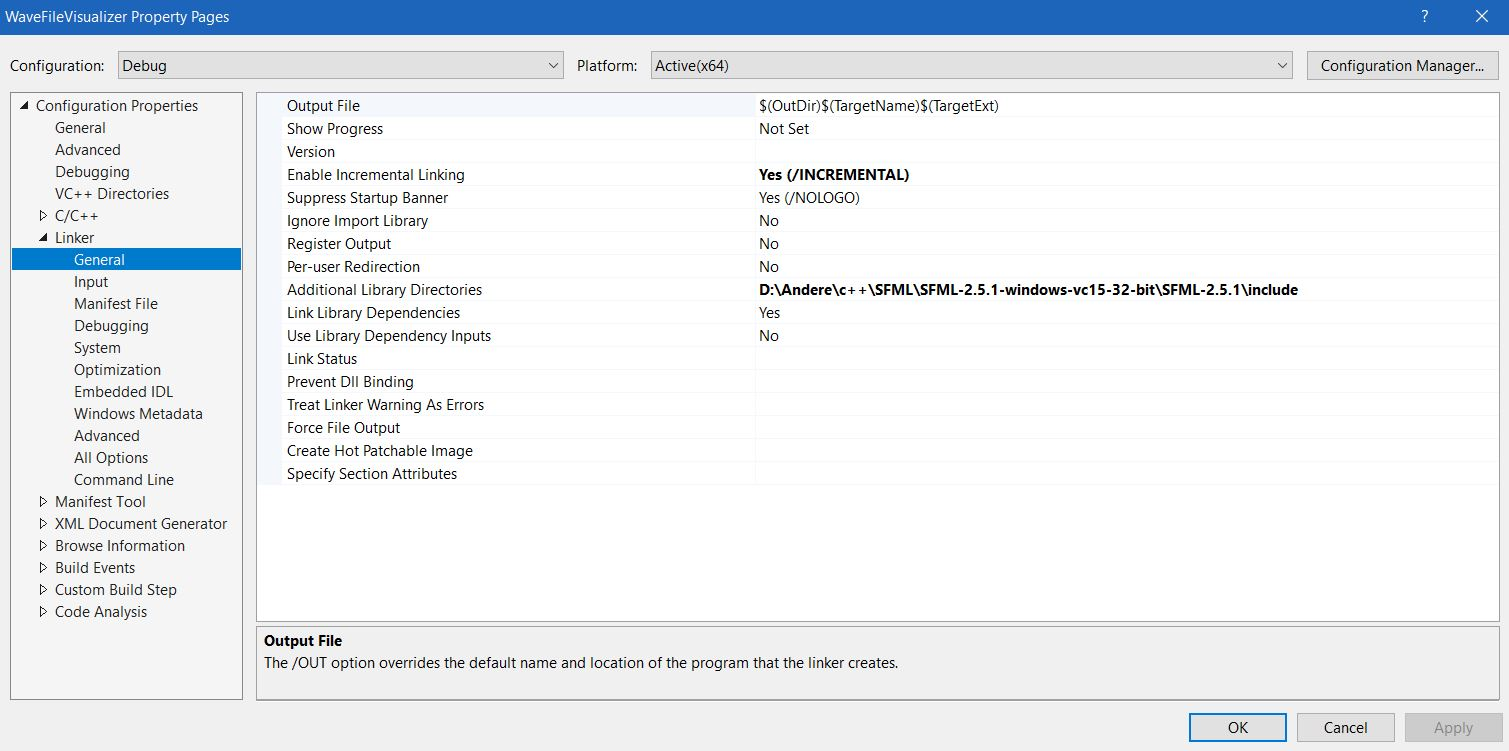
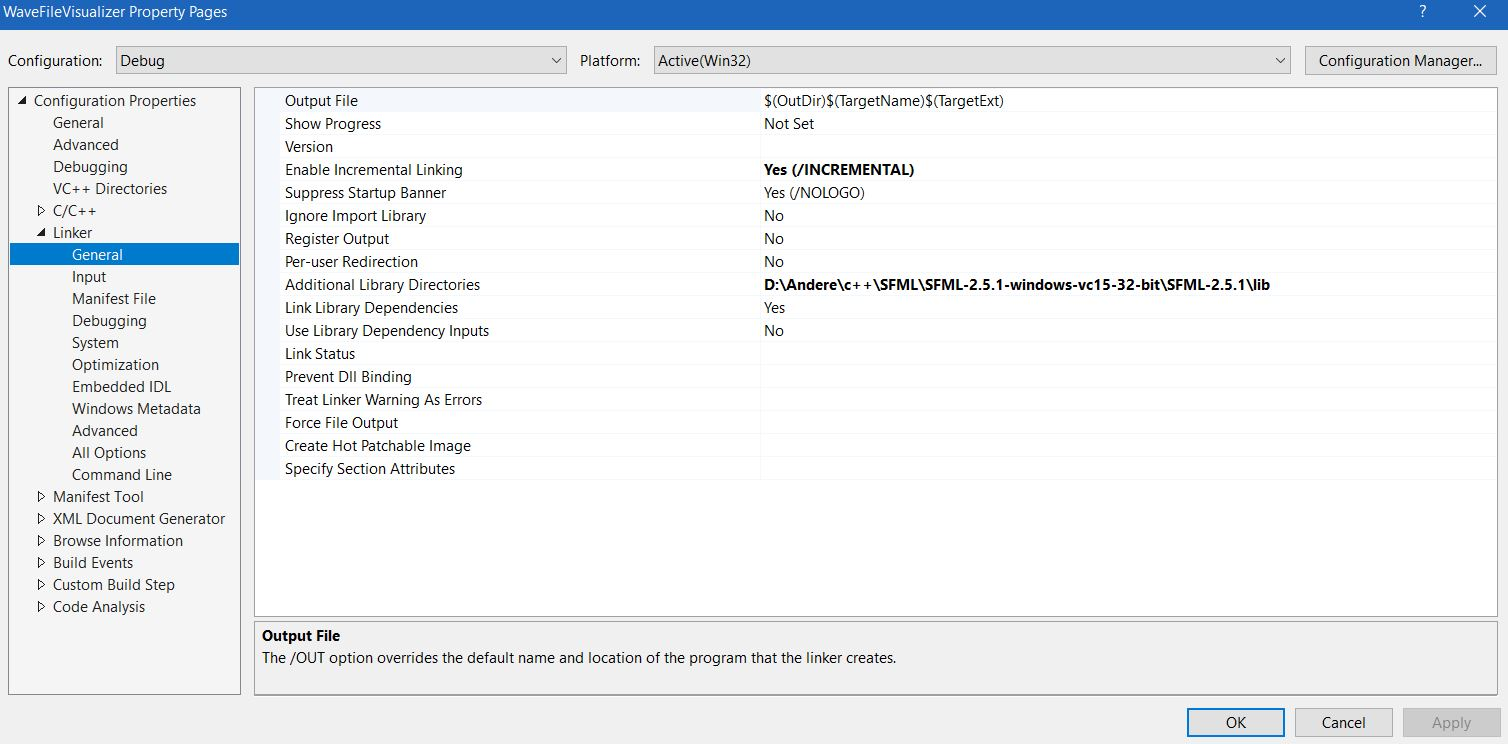
readme update

Changed region(s): [[0.0, 0.0, 1.0, 0.8965], [0.0, 0.9274, 0.9973, 1.0], [0.4987, 0.2164, 0.8727, 0.4637]]

diff --git a/README.md b/README.md
@@ -15,4 +15,14 @@ Repeat the process for "All Options"
 Next go to Linker -> General and under Additional Library Directories you put again the \include directory.
 ![](docs/img3.JPG)
 
-For the last step go to the \lib folder where you installed sfml and copy the sfml-audio-d.lib and the sfml-graphics-d.lib and paste them in the same directory as the solution file. Now you should be able to run it in visual studio.
+Furthermore add the following (sfml-graphics-d.lib;sfml-window-d.lib;sfml-system-d.lib;sfml-audio-d.lib;) to Linker->Input->Additional Dependencies
+![](D:\Andere\c++\WaveFileVisualizer\docs\img4.JPG)
+
+For the last step add the following files to the same directory where the .snl file is located.
+
+- openal32.dll (/bin folder)
+- sfml-audio-d-2.dll (/bin folder)
+- sfml-system-d-2.dll (/bin folder)
+- sfml-window-d-2.dll (/bin folder)
+
+You might also need to change the solution platform to x86 instead of x64.
